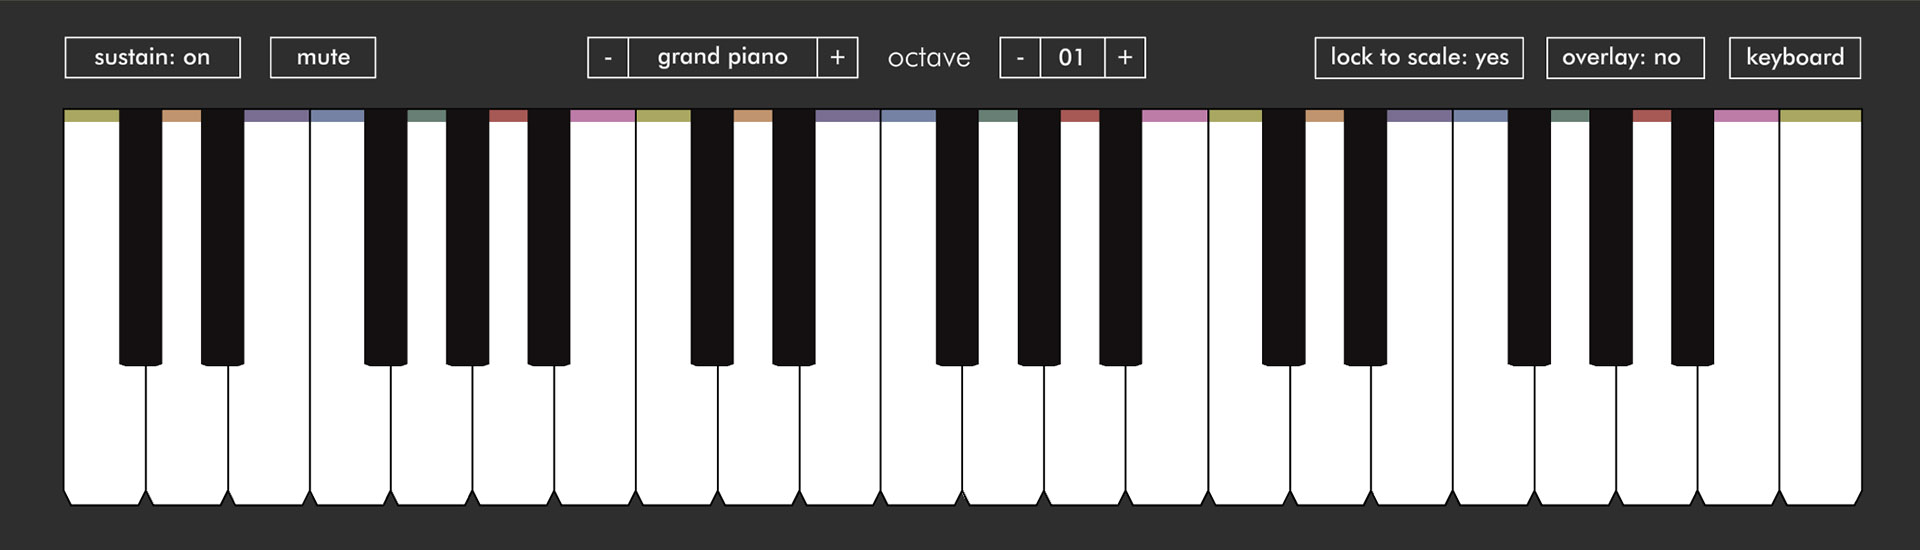
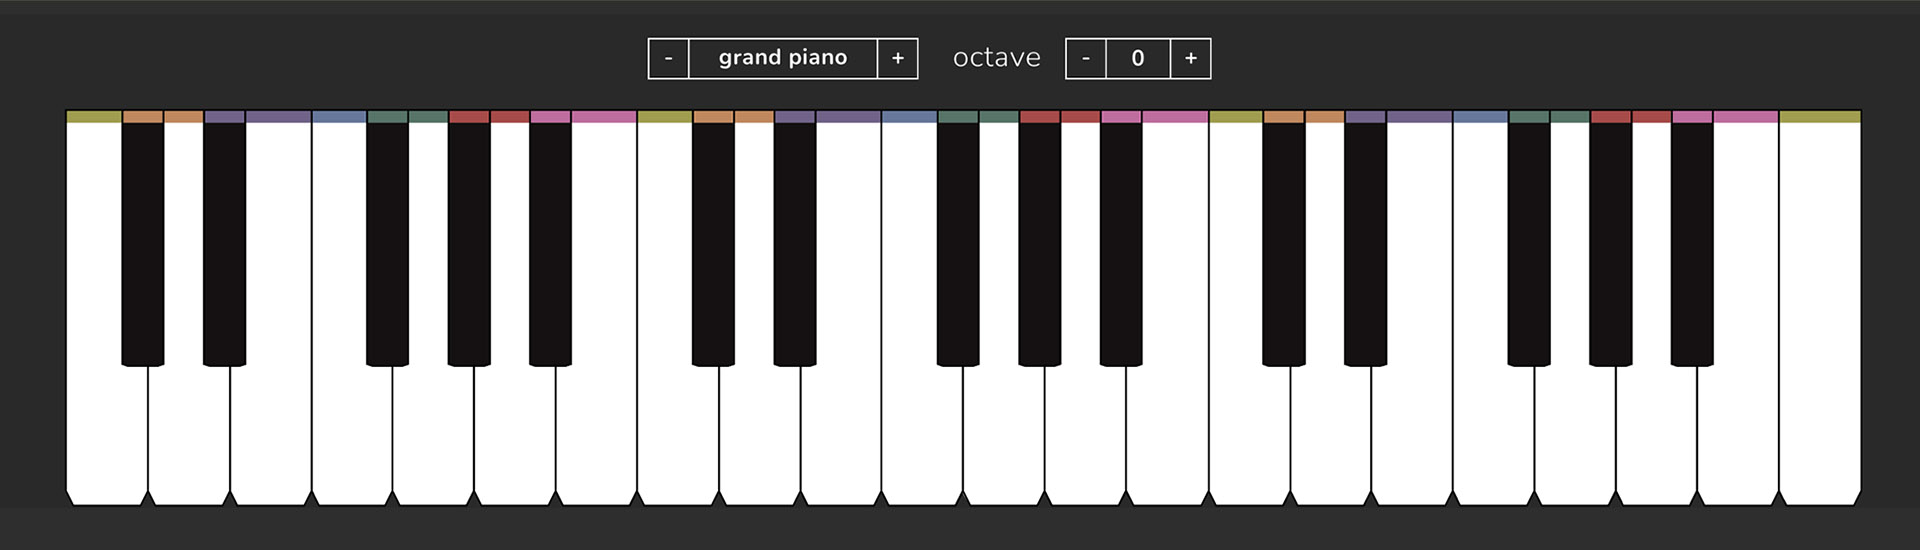
sh command line update

diff --git a/user.html b/user.html
@@ -142,14 +142,14 @@ window.__SJ_BAR_CLR__ = "#3e3e3e";
         <div class="content-text-block center">
           <!--#region contents-->
           <a class="url-dark-green"href="#collapse1">Getting Started</a><br>
+          <a class="url-dark-green"href="#locked">Locked and Unlocked mode</a><br>
+
           <a class="url-dark-green"href="#input">Input</a><br>
           <a class="url-dark-green"href="#Playback">Playback</a><br>
           <a class="url-dark-green"href="#Scale-Presets">Scale Presets</a><br>
           <a class="url-dark-green"href="#Scale Library">Scale Library</a><br>
           <a class="url-dark-green"href="#Guitar Chords">Guitar Chords</a><br>
           <a class="url-dark-green"href="#Guitar Fretboard">Guitar Fretboard</a><br>
-          <a class="url-dark-green"href="#Piano Chord Library">Fullscreen Fretboard</a><br>
-          <a class="url-dark-green"href="#Minimalist Mode">Minimalist Mode</a><br><br>
           <a class="url-dark-green"href="#Settings">Settings</a><br>
           &nbsp;&nbsp;&nbsp;&nbsp;<a class="url-dark-green"href="#Settings – Tuning & Guitar Configuration">Settings – Tuning & Guitar Configuration</a><br>
           &nbsp;&nbsp;&nbsp;&nbsp;<a class="url-dark-green"href="#Settings – Save and Load Presets">Settings – Save and Load Presets</a><br>
@@ -187,6 +187,28 @@ window.__SJ_BAR_CLR__ = "#3e3e3e";
         
         </div>
         <!--//Panel-->
+
+                <!--Panel-->
+  
+                <div class="dashed-line faq-break" id="input"></div>
+
+                <img class="drop-shadow user-guide-screenshot" src="images/AudioTheory-screenshot-unlocked-fretboard.jpg"  alt="Unlocked mode screenshot" />
+        
+          
+                <div id="locked" class="">
+            
+                
+                    <span class="cms-sub-heading">Locked and Unlocked Mode</span>
+                    <br><br>
+        
+                    The main application window can be toggled between unlocked 'edit' mode and locked 'view' mode using the padlock in the top right hand corner. In unlocked mode you will see numerous drop-downs and additional buttons overlaid onto the interface, allowing you to configure the display. Locked mode hides this overlay so that you can practice with a clutter-free view.
+
+        
+                    <!--//text-->
+                            
+                
+                </div>
+                <!--//Panel-->
     
         <!--Panel-->
         <div class="dashed-line faq-break" id="input"></div>
@@ -311,10 +333,7 @@ window.__SJ_BAR_CLR__ = "#3e3e3e";
                 <br><br>
 
                 There is a 'play' button next to each chord. Press this to see the guitar chord mapped onto the keyboard and the corresponding fretboard notes. You will also notice that under some chords (such as the 'F' chord in the below screenshot) there is another icon to the right of the cog. This appears for all chords that support an alternate position, press this to cycle between the different variations of the chord shape.
-                <br><br>
-                <img class="drop-shadow user-guide-screenshot" src="images/User-Screenshot-05.jpg"  alt="Scale Screenshot" />
 
-                In the top left hand corner of the chord box is a menu icon, this brings up some additional chord options. The 'chord sheets' option can be selected to view all available chords (with diagrams) from a single screen. There are also quick load options to quickly access a selection pre-defined common chord sets.
                 <br><br>
                 <img class="drop-shadow user-guide-screenshot" src="images/User-Screenshot-02-fullscreen.jpg"  alt="Fullscreen chords" />
                 <br>
@@ -341,11 +360,9 @@ window.__SJ_BAR_CLR__ = "#3e3e3e";
             <br>
             
                 <!--text-->
-                Note playback is supported directly from the fretboard; this then maps across the chord and piano diagrams relative to the application settings.
+                Note playback is supported directly from the fretboard; click on any note to see it hilighted across the chord and piano diagrams. When the application view is unlocked (toggeled using the padlock in the top right hand corner) there is an overlay allowing you to set the number strings, number of frets, the start fret, and the per-string tuning.
                 <br><br>
-                The fetboard tuning root tuning can be set from the options popup. You can also select per-string tuning here too. 
-                <br><br>
-                You can add a capo by pressing the desired number/ position on the fretboard. 
+                You can add or remove a capo by pressing the desired number/ position on the fretboard. 
                 <!--//text-->
                 <br><br>
                 <img class="drop-shadow user-guide-screenshot" src="images/User-Screenshot-06.jpg"  alt="Fretboard Screenshot" />
@@ -354,39 +371,8 @@ window.__SJ_BAR_CLR__ = "#3e3e3e";
 
 
 
-                <!--Panel-->
-        <div class="dashed-line faq-break" id="Fullscreen Fretboard"></div>
-       
-        <span class="cms-sub-heading">Fullscreen Fretboard</span>
-
-        <div id="collapse5" class="">
-            <br>
-            
-                <!--text-->
-Underneath the settings cog icon is a double arrow icon. Pressing this swaps between the standard screen view (chords and fretboard) to the fullscreen fretboard view, where the cords are replaced by a larger fretboard.
-            <!--//text-->
-
-        </div>
 
 
-       
-        <!--//Panel-->
-
-        <!--#region panel-->
-        <div class="dashed-line faq-break" id="Minimalist Mode"></div>
-        <span class="cms-sub-heading">Minimalist Mode</span>
-
-        <div id="collapse4" class="">
-
-            <br>
-
-                <!--#region text-->
-                'Minimalist Mode' is toggled on or off by pressing the eye icon on the right hand side of the screen (just under the chord box). This hides most of the configurable elements of the interface, reducing the amount of items on screen for scenarios where you want to focus on practicing.
-
-                <!--#endregion text-->
-
-        </div>
-        <!--#endregion panel-->
 
         <!--#region panel-->
         <div class="dashed-line faq-break" id="Settings"></div>
